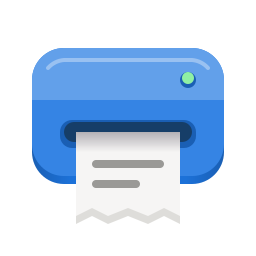
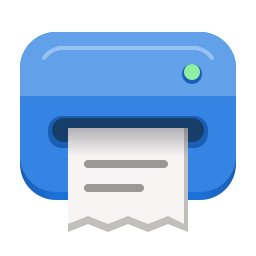
Consolida o nome Bipe e migra a instalação Flatpak

Changed region(s): [[0.0625, 0.125, 0.9375, 0.9062], [0.3125, 0.6875, 0.5625, 0.75], [0.625, 0.625, 0.6562, 0.6562]]

diff --git a/scripts/migrar-bipe.py b/scripts/migrar-bipe.py
@@ -1,0 +1,51 @@
+#!/usr/bin/env python3
+# SPDX-License-Identifier: GPL-3.0-or-later
+"""Migração local entre os dois identificadores Flatpak do Bipe."""
+from contextlib import closing
+import os
+from pathlib import Path
+import sqlite3
+import subprocess
+import tempfile
+
+OLD_ID = 'io.github.caixasimples.CaixaSimples'
+NEW_ID = 'io.github.ricardo_pompeu.Bipe'
+
+
+def migrate(root):
+    source = root / OLD_ID / 'data' / OLD_ID / 'caixa.sqlite3'
+    target = root / NEW_ID / 'data' / NEW_ID / 'caixa.sqlite3'
+    if not source.is_file():
+        return 'Nenhum banco da versão anterior encontrado.'
+    if target.exists():
+        return 'O Bipe já tem um banco próprio. Ele foi preservado; use Exportar e Restaurar backup se precisar trocar de banco.'
+    target.parent.mkdir(mode=0o700, parents=True, exist_ok=True)
+    with tempfile.TemporaryDirectory(dir=target.parent) as work:
+        temp = Path(work) / 'migração.sqlite3'
+        with closing(sqlite3.connect(source.resolve().as_uri() + '?mode=ro', uri=True, timeout=3)) as old:
+            with closing(sqlite3.connect(temp)) as new:
+                old.backup(new)
+                if new.execute('PRAGMA quick_check').fetchone()[0] != 'ok':
+                    raise ValueError('A cópia do banco não passou na verificação.')
+                counts = [new.execute(f'SELECT count(*) FROM {table}').fetchone()[0]
+                          for table in ('products', 'sales', 'settings')]
+        temp.chmod(0o600)
+        os.link(temp, target)  # Publica a cópia apenas se o destino ainda não existe.
+    return f'Dados migrados: {counts[0]} produtos, {counts[1]} vendas e {counts[2]} preferências. O original foi preservado.'
+
+
+def main():
+    root = Path.home() / '.var' / 'app'
+    source = root / OLD_ID / 'data' / OLD_ID / 'caixa.sqlite3'
+    if source.is_file():
+        running = subprocess.check_output(['flatpak', 'ps', '--columns=application'], text=True).split()
+        if OLD_ID in running or NEW_ID in running:
+            raise SystemExit('Feche as duas versões do Bipe antes de migrar os dados.')
+    try:
+        print(migrate(root))
+    except (OSError, ValueError, sqlite3.Error) as exc:
+        raise SystemExit(f'Migração não concluída: {exc}') from exc
+
+
+if __name__ == '__main__':
+    main()

diff --git a/tests/test_migration.py b/tests/test_migration.py
@@ -1,0 +1,40 @@
+from pathlib import Path
+import runpy
+import tempfile
+import unittest
+
+from bipe.core import Cart, Store
+
+migration = runpy.run_path(str(Path(__file__).resolve().parents[1] / 'scripts' / 'migrar-bipe.py'))
+
+
+class MigrationTest(unittest.TestCase):
+    def test_snapshot_preserves_sales_preferences_and_existing_destination(self):
+        with tempfile.TemporaryDirectory() as folder:
+            root = Path(folder)
+            old_id = migration['OLD_ID']
+            new_id = migration['NEW_ID']
+            source = root / old_id / 'data' / old_id / 'caixa.sqlite3'
+            target = root / new_id / 'data' / new_id / 'caixa.sqlite3'
+            old = Store(source)
+            try:
+                item = old.save_product('1', 'Café', 300)
+                cart = Cart()
+                cart.add(item)
+                old.checkout(cart, 'PIX')
+                old.configure(local_printer='POS-80', auto_cut=1)
+                migration['migrate'](root)
+                new = Store(target)
+                try:
+                    self.assertEqual(new.product('1').name, 'Café')
+                    self.assertEqual(new.sale(1)['total'], 300)
+                    self.assertEqual(new.get('local_printer'), 'POS-80')
+                    self.assertEqual(new.get('auto_cut'), '1')
+                    new.configure(store='Banco novo')
+                    migration['migrate'](root)
+                    self.assertEqual(new.get('store'), 'Banco novo')
+                    self.assertEqual(old.get('store'), '')
+                finally:
+                    new.close()
+            finally:
+                old.close()

diff --git a/scripts/closing_ui.py b/scripts/closing_ui.py
@@ -11,8 +11,8 @@ sys.path.insert(0, os.environ.get('CAIXA_TEST_PACKAGE', str(Path(__file__).resol
 with tempfile.TemporaryDirectory() as temporary:
     os.environ['XDG_DATA_HOME'] = temporary + '/data'
     os.environ['XDG_CACHE_HOME'] = temporary + '/cache'
-    from caixa_simples.ui import Application
-    from caixa_simples.core import Cart
+    from bipe.ui import Application
+    from bipe.core import Cart
     from gi.repository import Gtk, GLib, Gio, Gdk
     application = Application()
     application.set_flags(Gio.ApplicationFlags.NON_UNIQUE)

diff --git a/bipe/ui.py b/bipe/ui.py
@@ -605,7 +605,7 @@ class Window(Adw.ApplicationWindow):
                 raise ValueError('Escolha uma pasta local para guardar o backup.')
             self.store.backup(path)
             self.notify('Backup exportado')
-        self.choose_file('Exportar backup', True, 'caixa-simples-' + datetime.now().strftime('%Y-%m-%d-%H%M%S') + '.sqlite3', export)
+        self.choose_file('Exportar backup', True, 'bipe-' + datetime.now().strftime('%Y-%m-%d-%H%M%S') + '.sqlite3', export)
 
     def restore_backup(self):
         def selected(file):

diff --git a/scripts/smoke_ui.py b/scripts/smoke_ui.py
@@ -9,7 +9,7 @@ sys.path.insert(0, os.environ.get('CAIXA_TEST_PACKAGE', str(Path(__file__).resol
 with tempfile.TemporaryDirectory() as temporary:
     os.environ['XDG_DATA_HOME'] = temporary + '/data'
     os.environ['XDG_CACHE_HOME'] = temporary + '/cache'
-    from caixa_simples.ui import Application, Window
+    from bipe.ui import Application, Window
     from gi.repository import GLib, Gtk, Gio
     application = Application()
     application.set_flags(Gio.ApplicationFlags.NON_UNIQUE)

diff --git a/scripts/acceptance_ui.py b/scripts/acceptance_ui.py
@@ -10,7 +10,7 @@ sys.path.insert(0, os.environ.get('CAIXA_TEST_PACKAGE', str(Path(__file__).resol
 with tempfile.TemporaryDirectory() as temporary:
     os.environ['XDG_DATA_HOME'] = temporary + '/data'
     os.environ['XDG_CACHE_HOME'] = temporary + '/cache'
-    from caixa_simples.ui import Application
+    from bipe.ui import Application
     from gi.repository import Gtk, Adw, GLib, Gio
     application = Application()
     application.set_flags(Gio.ApplicationFlags.NON_UNIQUE)

diff --git a/tests/test_core.py b/tests/test_core.py
@@ -5,8 +5,8 @@ import tempfile
 import unittest
 from unittest.mock import Mock, patch
 from contextlib import closing
-from caixa_simples.core import Store, Cart, money, parse_money, change_due
-from caixa_simples.receipt import render_pdf, receipt_lines, Printer
+from bipe.core import Store, Cart, money, parse_money, change_due
+from bipe.receipt import render_pdf, receipt_lines, Printer
 
 
 class CashTest(unittest.TestCase):

diff --git a/tests/test_installer.py b/tests/test_installer.py
@@ -6,7 +6,7 @@ import tempfile
 import unittest
 
 
-SCRIPT = Path(__file__).resolve().parents[1] / 'scripts' / 'instalar-caixa-simples.sh'
+SCRIPT = Path(__file__).resolve().parents[1] / 'scripts' / 'instalar-bipe.sh'
 USB = 'usb://Printer/POS-80?serial=OUTRO-COMPUTADOR'
 MODEL = 'drv:///cupsfilters.drv/textonly.ppd'
 

diff --git a/tests/test_thermal.py b/tests/test_thermal.py
@@ -1,5 +1,5 @@
 import unittest
-from caixa_simples.thermal import Queue, select_queue, text_queue, thermal_payload, thermal_lines
+from bipe.thermal import Queue, select_queue, text_queue, thermal_payload, thermal_lines
 
 
 class ThermalTest(unittest.TestCase):

diff --git a/tests/test_closing.py b/tests/test_closing.py
@@ -2,7 +2,7 @@ from datetime import date
 from pathlib import Path
 from tempfile import TemporaryDirectory
 import unittest
-from caixa_simples.core import Store, Cart
+from bipe.core import Store, Cart
 
 
 class DailySummaryTest(unittest.TestCase):

diff --git a/bipe/__init__.py b/bipe/__init__.py
@@ -1,0 +1,3 @@
+"""Bipe — PDV local para GNOME."""
+APP_ID = 'io.github.ricardo_pompeu.Bipe'
+VERSION = '0.4.0'
